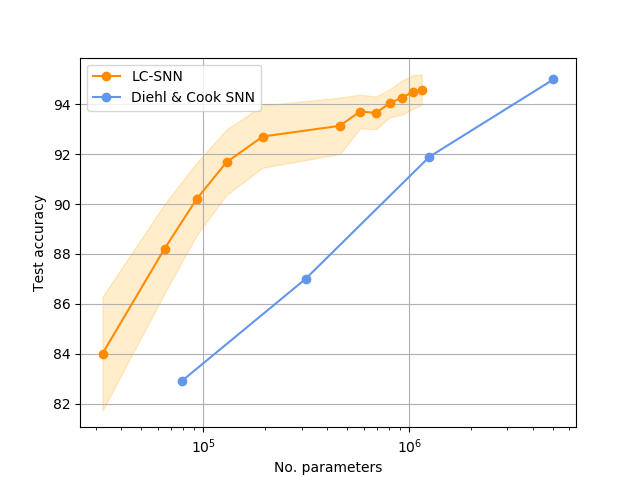
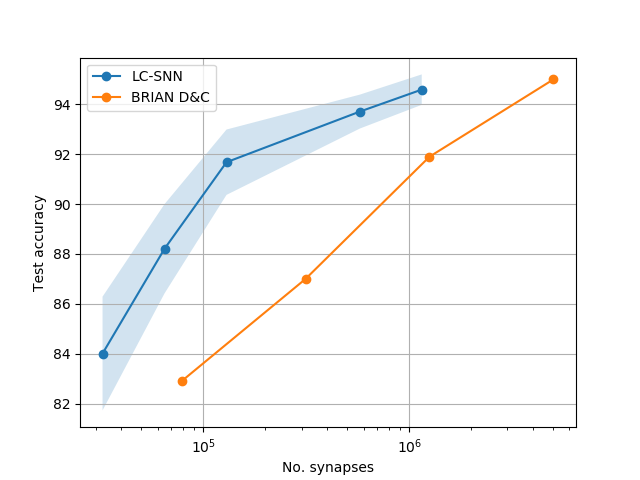
Updating plotting code + figures.

diff --git a/experiments/analysis/plot_lcsnn_dac_performance_comp.py b/experiments/analysis/plot_lcsnn_dac_performance_comp.py
@@ -1,0 +1,105 @@
+import os
+import torch
+import numpy as np
+import matplotlib.pyplot as plt
+
+from experiments import ROOT_DIR
+
+
+lcsnn_filters = np.array([25, 50, 100, 250, 500])
+lcsnn_synapses = np.array([32400, 64800, 129600, 576000, 1150000])
+lcsnn_neurons = np.array([225, 450, 900, 2250, 4500])
+lcsnn_spikes = np.array([])
+lcsnn_means = np.array([84.01, 88.21, 91.68, 93.71, 94.59])
+lcsnn_stds = np.array([2.28, 1.79, 1.31, 0.68, 0.61])
+
+brian_dac_neurons = np.array([100, 400, 1600, 6400])
+brian_dac_synapses = np.array([784 * n for n in brian_dac_neurons])
+brian_dac_means = np.array([82.9, 87.0, 91.9, 95.0])
+
+bindsnet_dac_neurons = np.array([100, 400, 900, 1600, 2500, 3600, 4900, 6400])
+bindsnet_dac_synapses = np.array([784 * n for n in bindsnet_dac_neurons])
+bindsnet_dac_spikes = np.array([])
+bindsnet_dac_means = np.array([])
+bindsnet_dac_stds = np.array([])
+
+# Synapses.
+plt.figure()
+
+plt.plot(lcsnn_synapses, lcsnn_means, 'o-', label='LC-SNN')
+plt.fill_between(
+    lcsnn_synapses, lcsnn_means - lcsnn_stds, lcsnn_means + lcsnn_stds, alpha=0.2
+)
+
+plt.plot(brian_dac_synapses, brian_dac_means, 'o-', label='BRIAN D&C')
+
+# plt.plot(bindsnet_dac_synapses, bindsnet_dac_means, 'o-', label='LC-SNN')
+# plt.fill_between(
+#     bindsnet_dac_synapses, bindsnet_dac_means - bindsnet_dac_stds, bindsnet_dac_means + bindsnet_dac_stds, alpha=0.2
+# )
+
+plt.xlabel('No. synapses')
+plt.ylabel('Test accuracy')
+plt.xscale('log')
+plt.legend()
+plt.grid()
+
+plt.savefig(
+    os.path.join(
+        ROOT_DIR, 'figures', 'lcsnn_dac_synapses.png'
+    )
+)
+
+# Neurons.
+plt.figure()
+
+plt.plot(lcsnn_neurons, lcsnn_means, 'o-', label='LC-SNN')
+plt.fill_between(
+    lcsnn_neurons, lcsnn_means - lcsnn_stds, lcsnn_means + lcsnn_stds, alpha=0.2
+)
+
+plt.plot(brian_dac_neurons, brian_dac_means, 'o-', label='BRIAN D&C')
+
+# plt.plot(bindsnet_dac_neurons, bindsnet_dac_means, 'o-', label='LC-SNN')
+# plt.fill_between(
+#     bindsnet_dac_neurons, bindsnet_dac_means - bindsnet_dac_stds, bindsnet_dac_means + bindsnet_dac_stds, alpha=0.2
+# )
+
+plt.xlabel('No. neurons')
+plt.ylabel('Test accuracy')
+plt.xscale('log')
+plt.legend()
+plt.grid()
+
+plt.savefig(
+    os.path.join(
+        ROOT_DIR, 'figures', 'lcsnn_dac_neurons.png'
+    )
+)
+
+# Spikes.
+# plt.figure()
+#
+# plt.plot(lcsnn_spikes, lcsnn_means, 'o-', label='LC-SNN')
+# plt.fill_between(
+#     lcsnn_spikes, lcsnn_means - lcsnn_stds, lcsnn_means + lcsnn_stds, alpha=0.2
+# )
+#
+# # plt.plot(bindsnet_dac_spikes, bindsnet_dac_means, 'o-', label='BindsNET D&C')
+# # plt.fill_between(
+# #     lcsnn_spikes, lcsnn_means - lcsnn_stds, lcsnn_means + lcsnn_stds, alpha=0.2
+# # )
+#
+# plt.xlabel('No. spikes')
+# plt.ylabel('Test accuracy')
+# plt.xscale('log')
+# plt.legend()
+# plt.grid()
+#
+# plt.savefig(
+#     os.path.join(
+#         ROOT_DIR, 'figures', 'lcsnn_dac_spikes.png'
+#     )
+# )
+
+plt.show()

diff --git a/experiments/analysis/plot_convergence_lcsnn_dac_comp.py b/experiments/analysis/plot_convergence_lcsnn_dac_comp.py
@@ -31,7 +31,7 @@ for i in filters:
 
     plt.plot(curve, label=f'LC-SNN ({i} filters)')
 
-filters = [100, 300, 500]
+filters = [100, 400, 1600, 6400]
 for i in filters:
     curve = torch.load(
         os.path.join(
@@ -46,7 +46,9 @@ for i in filters:
     curve[0] = 10
     curve[-2:] = curve[-3]
 
-    plt.plot(curve, linestyle='--', label=f'D&C ({i} neurons)')
+    plt.plot(curve, linestyle='--', label=f'BindsNET D&C ({i} neurons)')
+
+plt.axhline(95, color='r', linestyle=':', label='D&C (6400 neurons; 15 passes)')
 
 plt.xlabel('No. training examples')
 plt.ylabel('Estimated test accuracy')
